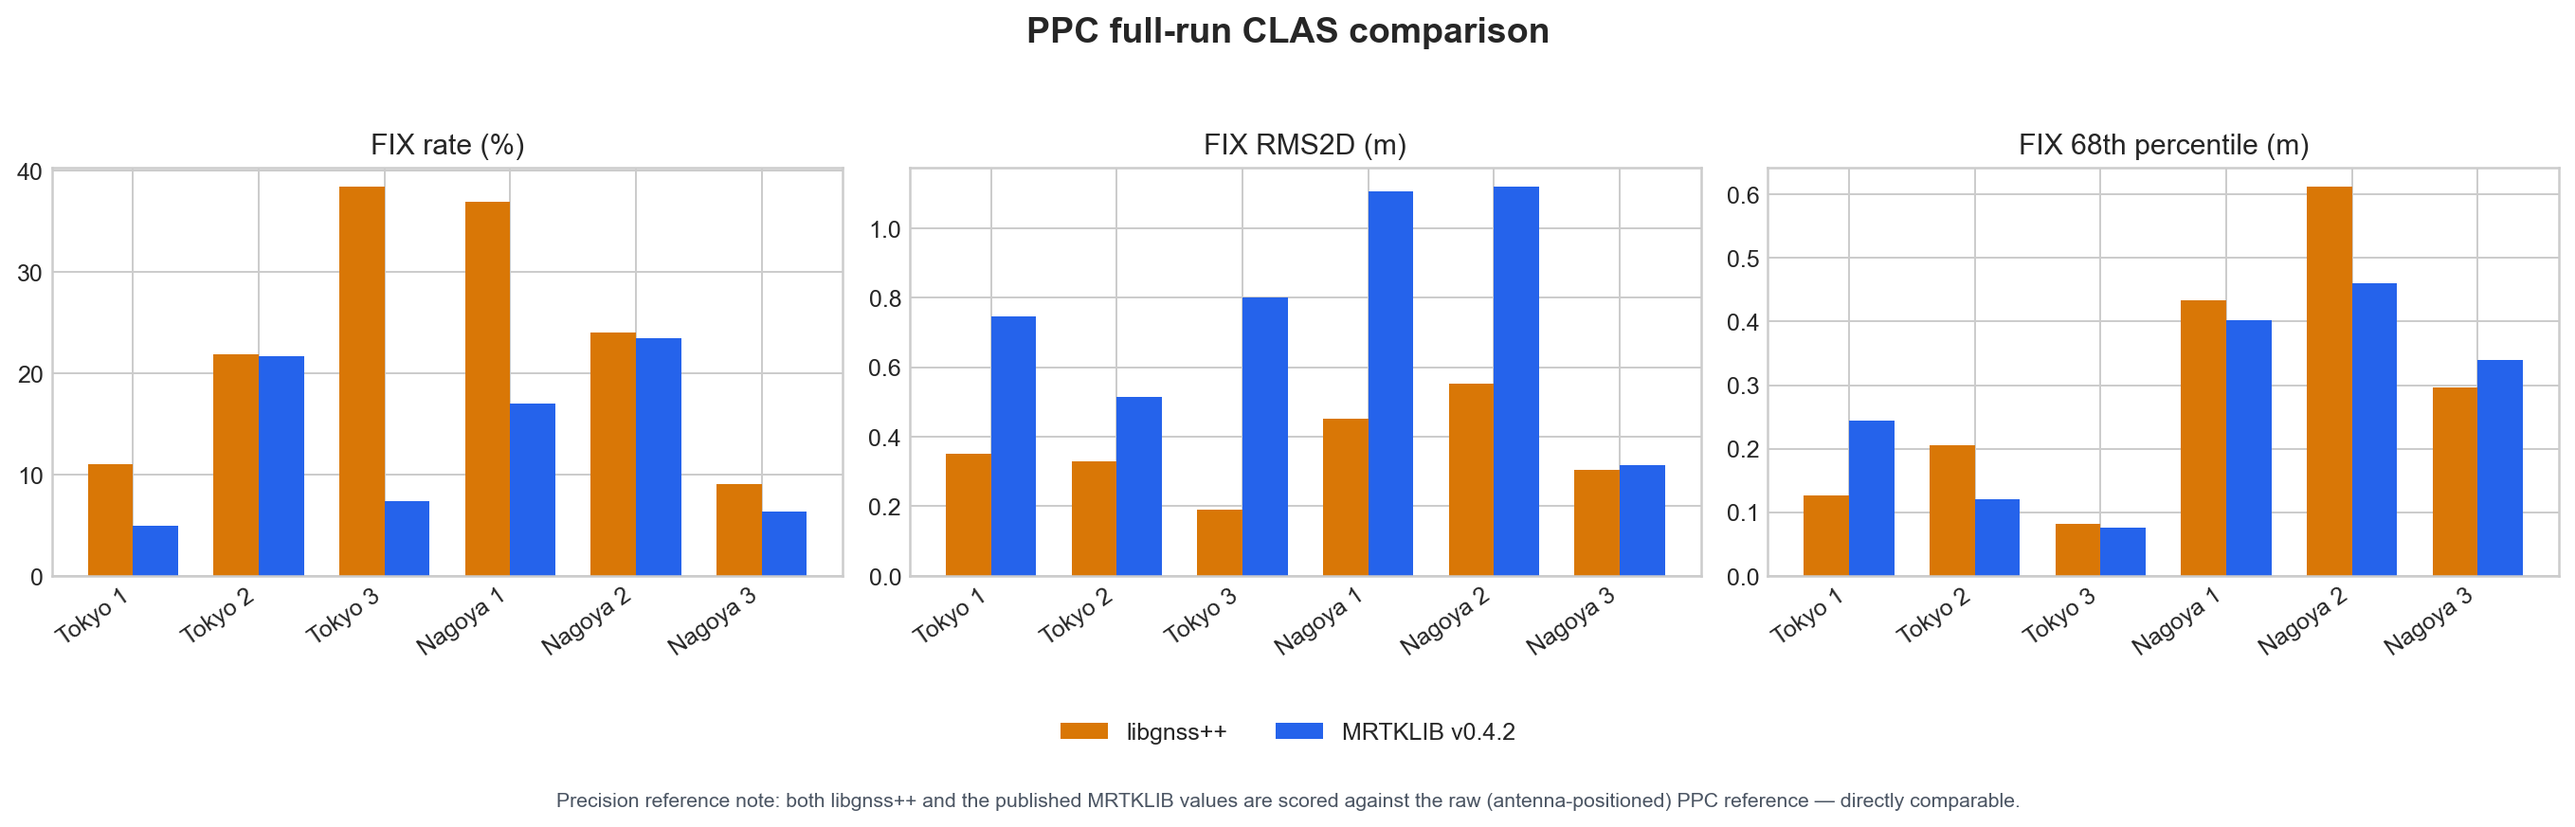
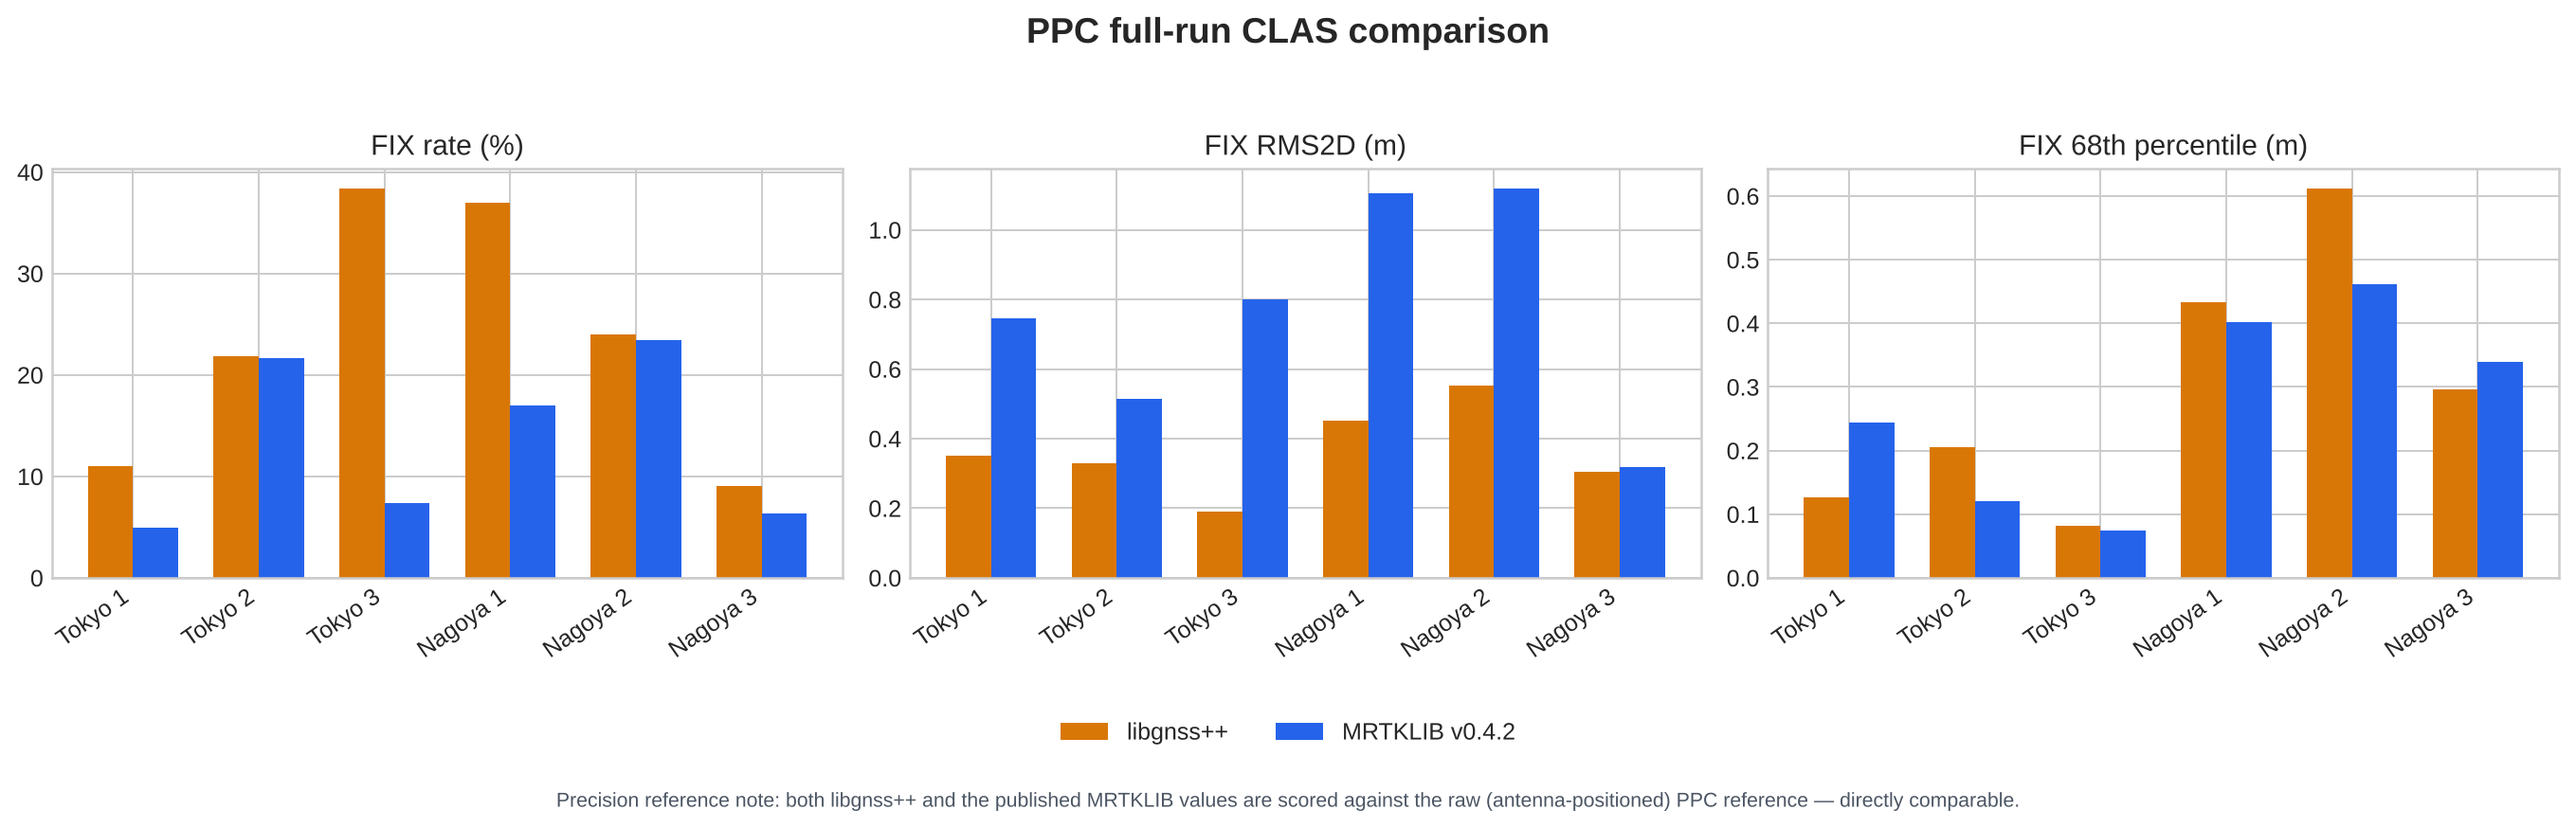
docs: refresh clas-ppc lane numbers (25.121% -> 25.117% FIX)
Rerun `gnss reproduce clas-ppc --update-docs` on develop 31d7177f (Linux,
gcc 13.3 Release): aggregate FIX 25.121% -> 25.117% (14,635 -> 14,633
epochs, all on Nagoya 2, first changed by #582), all/FLOAT/SINGLE RMS2D
36.522/16.885/70.361 -> 36.631/16.964/70.596 m, FIX RMS2D 0.359365 ->
0.359287 m. Zero FIX epochs above 3 m and all six MRTKLIB hard gates still
pass. Updates the README row/table/paragraph, lane expectation, generated
table, metrics and figures, the validation summary and the pinned test text.

Claude-Session: https://claude.ai/code/session_01BXP28mSGGHJ4JLW3aT2Nwf

diff --git a/tests/test_cli_ux.py b/tests/test_cli_ux.py
@@ -560,7 +560,7 @@ class CliUxTest(unittest.TestCase):
         clas_row = clas_rows[0]
         for snippet in (
             "Six PPC Tokyo/Nagoya runs",
-            "25.121% aggregate FIX",
+            "25.117% aggregate FIX",
             "zero FIX epochs above 3 m",
             "every run passes the MRTKLIB v0.4.2",
         ):
@@ -580,7 +580,7 @@ class CliUxTest(unittest.TestCase):
             "SINGLE RMS2D*",
             "ordinary direct state-DD floor remains six rows",
             "176 more than the fixed baseline",
-            "FLOAT and SINGLE RMS2D are 16.885 m and 70.361 m",
+            "FLOAT and SINGLE RMS2D are 16.964 m and 70.596 m",
             "GNSS_PPP_CLAS_AR_HELD_MIN_DD_ROWS=6",
         ):
             self.assertIn(snippet, normalized_section)

diff --git a/README.md b/README.md
@@ -92,7 +92,7 @@ See the [v0.3.0 release highlights](docs/releases/v0.3.0.md) and
 |---|---|---|
 | RTK | PPC Tokyo/Nagoya vs RTKLIB `demo5` b34k | +57.0 pp fix rate, +44.9 pp official score, -11.33 m P95 H delta (six-run average; demo5 publishes mostly FLOAT/SINGLE on more epochs, so Positioning is -9.7 pp) |
 | GNSS/IMU FGO | PPC Tokyo vs `tightly-coupled-gnss-imu-fgo` | Higher fix rate on all 3 runs (avg +10.7 pp); <50 cm fraction higher on 2 of 3 runs (avg +7.9 pp, run1 -1.8 pp); fixed-only RMS wins 2 of 3 runs |
-| CLAS PPP | Six PPC Tokyo/Nagoya runs vs MRTKLIB CLAS | 25.121% aggregate FIX, 0.359 m FIX RMS2D, and zero FIX epochs above 3 m across 58,259 scored epochs; every run passes the MRTKLIB v0.4.2 FIX-rate and FIX-RMS2D hard gates |
+| CLAS PPP | Six PPC Tokyo/Nagoya runs vs MRTKLIB CLAS | 25.117% aggregate FIX, 0.359 m FIX RMS2D, and zero FIX epochs above 3 m across 58,259 scored epochs; every run passes the MRTKLIB v0.4.2 FIX-rate and FIX-RMS2D hard gates |
 | Urban RTK | UrbanNav Tokyo Odaiba vs RTKLIB `demo5` b34k | 922 vs 205 fixes, Hp95 5.87 vs 25.62 m, Vp95 16.42 vs 43.37 m; lower Hmed on common epochs (0.294 vs 0.548 m); both solvers use the surveyed base position |
 | SPP | PPC SPP adaptive robust + policy gate (Tokyo run1, Nagoya run1-3) | No P95 H regression with <=1 pp positioning drop on the 4 checked runs |
 | Smartphone GNSS/IMU | GSDC 2023-2024 official submission | **Private 0.984 m / Public 0.915 m**; 40 drives, 71,936 native output rows |
@@ -299,9 +299,9 @@ Each run has 100% interval coverage and at least 99.95% epoch coverage.
 | Tokyo 2 | **21.859%** | 21.700% | **0.329 m** | 0.514 m | 25.880 m | 18.346 m | 45.128 m | 1.333 m | 0 |
 | Tokyo 3 | **38.378%** | 7.400% | **0.191 m** | 0.801 m | 35.276 m | 19.617 m | 88.519 m | 2.986 m | 0 |
 | Nagoya 1 | **36.923%** | 17.000% | **0.451 m** | 1.105 m | 57.163 m | 7.966 m | 119.111 m | 1.043 m | 0 |
-| Nagoya 2 | **23.969%** | 23.400% | **0.554 m** | 1.119 m | 25.829 m | 16.233 m | 40.405 m | 0.767 m | 0 |
-| Nagoya 3 | **9.010%** | 6.300% | **0.304 m** | 0.318 m | 13.724 m | 14.392 m | 14.380 m | 0.587 m | 0 |
-| **Six-run aggregate** | **25.121%** | — | **0.359 m** | — | **36.522 m** | **16.885 m** | **70.361 m** | **2.986 m** | **0** |
+| Nagoya 2 | **23.948%** | 23.400% | **0.554 m** | 1.119 m | 26.803 m | 16.841 m | 42.023 m | 0.767 m | 0 |
+| Nagoya 3 | **9.010%** | 6.300% | **0.304 m** | 0.318 m | 13.595 m | 14.392 m | 14.056 m | 0.587 m | 0 |
+| **Six-run aggregate** | **25.117%** | — | **0.359 m** | — | **36.631 m** | **16.964 m** | **70.596 m** | **2.986 m** | **0** |
 
 \* libgnss++ precision uses the raw PPC reference point (already
 antenna-positioned; no lever-arm transform is applied — an earlier revision
@@ -314,11 +314,11 @@ RMS2D is now lower than MRTKLIB's on all six runs (bolded above).
 
 ![PPC six-run moving CLAS metric comparison](docs/ppc_clas_full_comparison.png)
 
-Across 58,259 scored epochs, native CLAS produced 14,635 FIX epochs: 176 more
+Across 58,259 scored epochs, native CLAS produced 14,633 FIX epochs: 176 more
 than the fixed baseline, with no lost baseline FIX epochs. Every run meets or
 exceeds the published MRTKLIB v0.4.2 FIX rate, beats its FIX RMS2D, and has
-zero FIX epochs above 3 m. The six-run all-solution RMS2D is 36.522 m; FLOAT
-and SINGLE RMS2D are 16.885 m and 70.361 m respectively. p68 is a soft miss on
+zero FIX epochs above 3 m. The six-run all-solution RMS2D is 36.631 m; FLOAT
+and SINGLE RMS2D are 16.964 m and 70.596 m respectively. p68 is a soft miss on
 Tokyo 2, Tokyo 3, Nagoya 1, and Nagoya 2; TTFF is a soft miss only on Nagoya 3.
 
 The production defaults are held floor 4 and maximum reduced-publication

diff --git a/docs/ppc_clas_validation.md b/docs/ppc_clas_validation.md
@@ -5,8 +5,8 @@ Benchmark source: [GNSS測位エコシステムの統合を目指して - モダ
 ## Current verdict
 
 The full six-run PPC moving-data hard sign-off passes. Across 58,259 scored
-epochs LibGNSS++ produced 14,635 FIX epochs (25.120582%) with 0.359365 m
-aggregate FIX RMS2D, 0.347847 m FIX p68, and zero FIX epochs above 3 m. Every
+epochs LibGNSS++ produced 14,633 FIX epochs (25.117149%) with 0.359287 m
+aggregate FIX RMS2D, 0.347764 m FIX p68, and zero FIX epochs above 3 m. Every
 run covers 100% of the reference interval and at least 99.95% of observation
 epochs.
 
@@ -23,12 +23,12 @@ six runs independently meets or exceeds the published MRTKLIB v0.4.2 FIX rate,
 beats its FIX RMS2D, retains at least 99% time and epoch coverage, and has zero
 FIX epochs above 3 m. Tokyo 2 now clears its narrow rate deficit at 21.859186%
 versus 21.7%, with 0.329495 m FIX RMS2D versus 0.514 m. Nagoya 2's prior unsafe
-tail is absent: its maximum FIX error is 0.767281 m.
+tail is absent: its maximum FIX error is 0.767249 m.
 
 p68 and TTFF remain soft diagnostics rather than hard gates. p68 passes on
 Tokyo 1 and Nagoya 3 and misses on the other four runs; TTFF passes on five
 runs and misses only on Nagoya 3 (27 s versus 9 s). Aggregate all-solution,
-FLOAT, and SINGLE RMS2D are 36.522236 m, 16.884790 m, and 70.360920 m.
+FLOAT, and SINGLE RMS2D are 36.631008 m, 16.963609 m, and 70.596097 m.
 
 The promoted production defaults are a held minimum of four DD rows and a
 maximum publication streak of five. The previous behavior remains available
@@ -63,7 +63,7 @@ apples-to-apples basis for comparison. One side effect of the old bias was
 flattering: in a historical baseline it shifted a 19-epoch Nagoya 2 burst
 from an honest 3.200 m maximum to 2.486 m, creating a false "no FIX epoch
 above 3 m" claim. The accepted candidate removes that burst (Nagoya 2 maximum
-0.767281 m), but raw-antenna scoring remains essential for an honest gate.
+0.767249 m), but raw-antenna scoring remains essential for an honest gate.
 
 ## Non-FIX continuity fix
 

diff --git a/docs/ppc_clas_full_table.md b/docs/ppc_clas_full_table.md
@@ -4,9 +4,9 @@
 | Tokyo 2 | 100.000% / 99.989% | 21.859% | 21.700% | 0.329 m | 0.514 m | 0.206 m | 0.120 m | 25.880 m | 18.346 m | 45.128 m | 1.333 m | 0 | 34.000 s | 368.000 s |
 | Tokyo 3 | 100.000% / 99.980% | 38.378% | 7.400% | 0.191 m | 0.801 m | 0.082 m | 0.075 m | 35.276 m | 19.617 m | 88.519 m | 2.986 m | 0 | 4.000 s | 28.000 s |
 | Nagoya 1 | 100.000% / 99.974% | 36.923% | 17.000% | 0.451 m | 1.105 m | 0.434 m | 0.402 m | 57.163 m | 7.966 m | 119.111 m | 1.043 m | 0 | 0.000 s | 0.000 s |
-| Nagoya 2 | 100.000% / 99.958% | 23.969% | 23.400% | 0.554 m | 1.119 m | 0.612 m | 0.461 m | 25.829 m | 16.233 m | 40.405 m | 0.767 m | 0 | 0.000 s | 0.000 s |
-| Nagoya 3 | 100.000% / 99.962% | 9.010% | 6.300% | 0.304 m | 0.318 m | 0.296 m | 0.339 m | 13.724 m | 14.392 m | 14.380 m | 0.587 m | 0 | 27.000 s | 9.000 s |
-| **Six-run aggregate** | — | **25.121%** | — | **0.359 m** | — | **0.348 m** | — | **36.522 m** | **16.885 m** | **70.361 m** | **2.986 m** | **0** | — | — |
+| Nagoya 2 | 100.000% / 99.958% | 23.948% | 23.400% | 0.554 m | 1.119 m | 0.612 m | 0.461 m | 26.803 m | 16.841 m | 42.023 m | 0.767 m | 0 | 0.000 s | 0.000 s |
+| Nagoya 3 | 100.000% / 99.962% | 9.010% | 6.300% | 0.304 m | 0.318 m | 0.296 m | 0.339 m | 13.595 m | 14.392 m | 14.056 m | 0.587 m | 0 | 27.000 s | 9.000 s |
+| **Six-run aggregate** | — | **25.117%** | — | **0.359 m** | — | **0.348 m** | — | **36.631 m** | **16.964 m** | **70.596 m** | **2.986 m** | **0** | — | — |
 
 \* libgnss++ precision uses the raw PPC reference point (already antenna-positioned; no lever-arm transform applied).
 † Published MRTKLIB v0.4.2 precision also uses the raw PPC reference point; precision columns use the same reference convention and are directly comparable.
